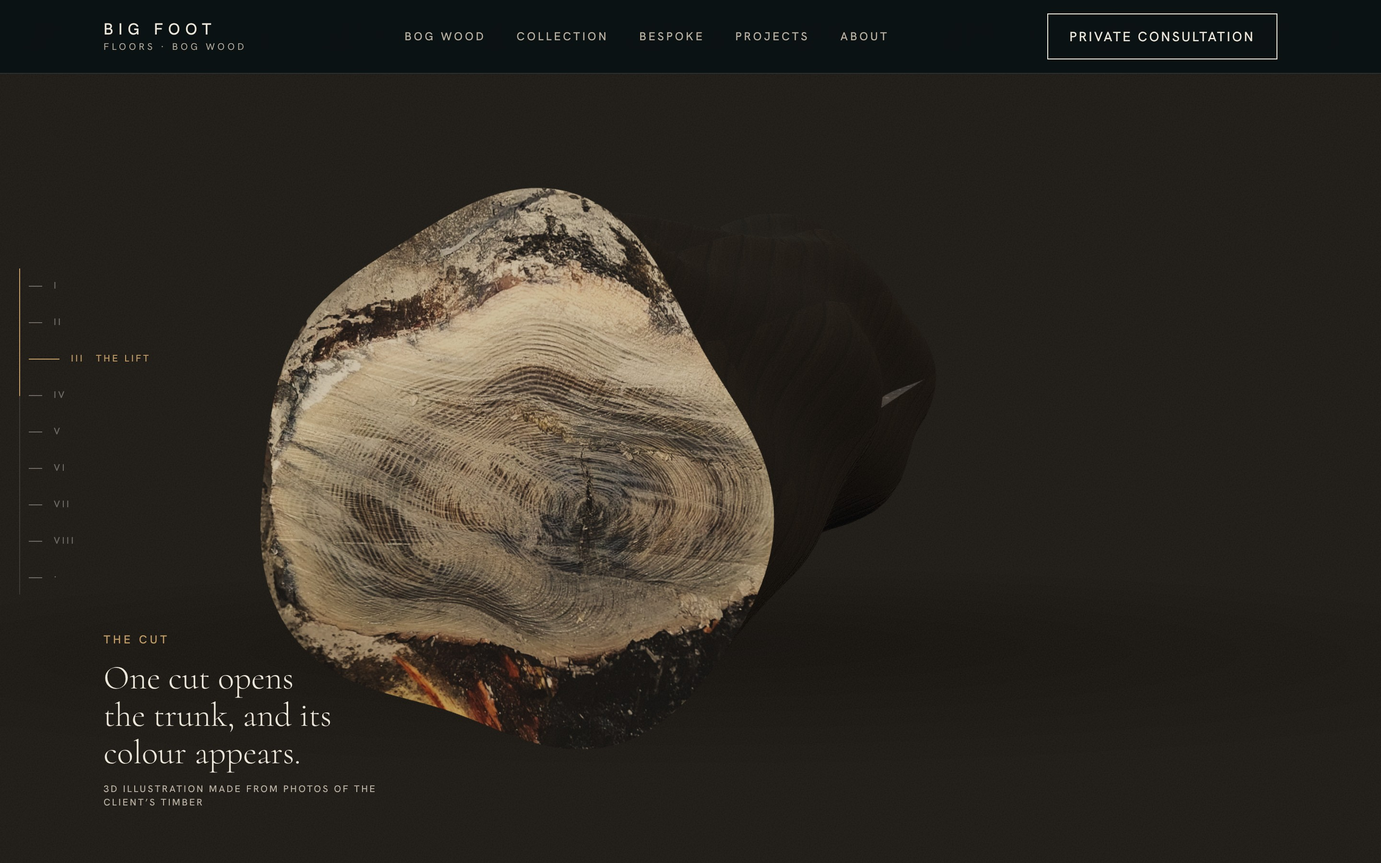
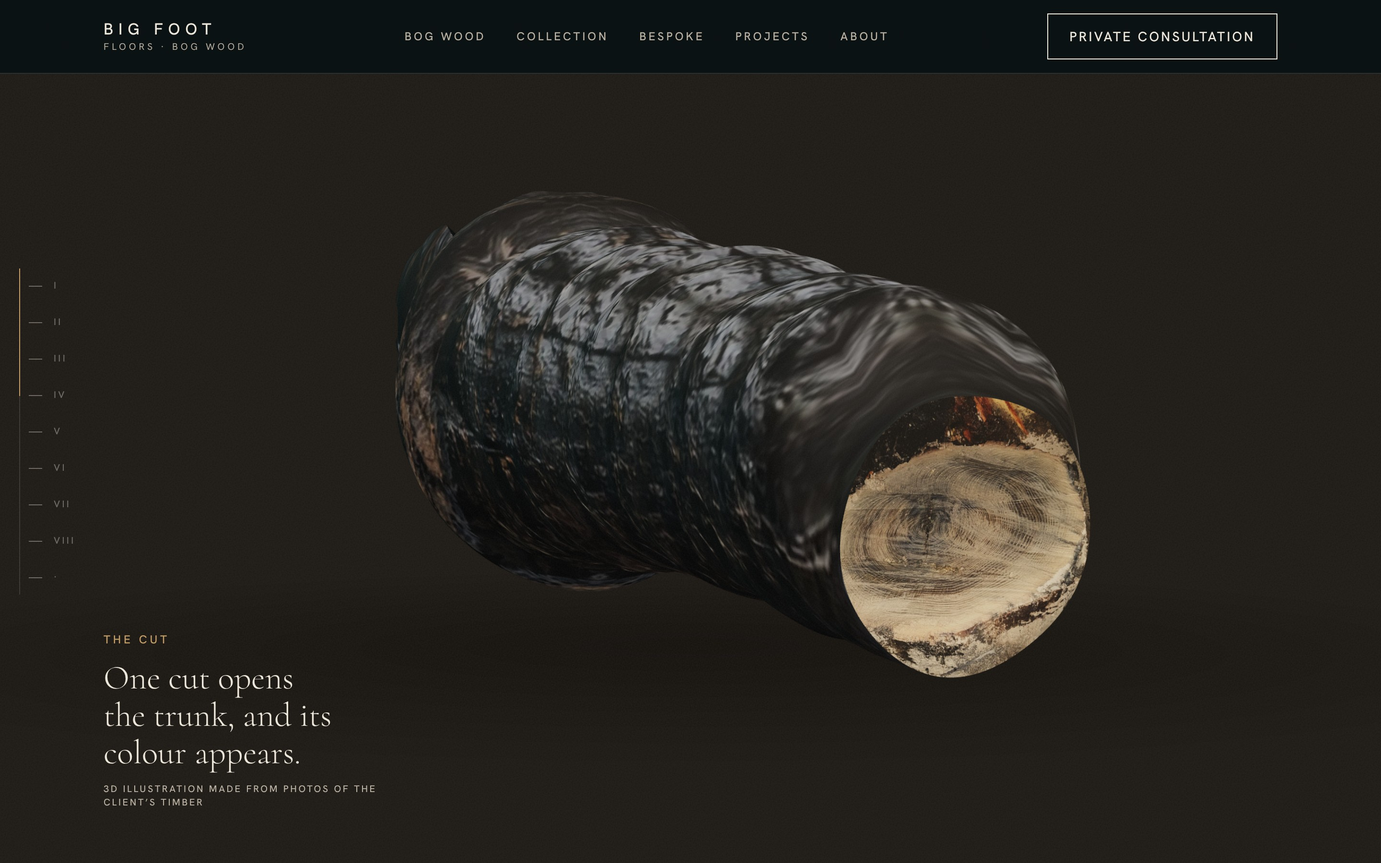
3D trunk scanned from the reference photo: photo-first frame handed over to a turntable mesh; docs and mockups
Claude-Session: https://claude.ai/code/session_0176xqUs6PUy2sKzsaDTTJa2

Changed region(s): [[0.1875, 0.2178, 0.8125, 0.84], [0.375, 0.84, 0.4062, 0.8711]]

diff --git a/src/js/scene.js b/src/js/scene.js
@@ -4,8 +4,9 @@
 import * as THREE from 'three';
 import { RoomEnvironment } from 'three/examples/jsm/environments/RoomEnvironment.js';
 import { gsap } from 'gsap';
+import PROFILE from './trunk-profile.json';   // scanned from the reference trunk photo (scripts/scan_trunk.py)
 
-const R = 0.78, LEN = 4.2;
+const LEN = 4.8, R = LEN / PROFILE.lenOverR;
 
 export async function createScene(canvas) {
   const renderer = new THREE.WebGLRenderer({ canvas, antialias: true, alpha: true, powerPreference: 'high-performance' });
@@ -33,49 +34,96 @@ export async function createScene(canvas) {
     t.colorSpace = THREE.SRGBColorSpace; t.anisotropy = Math.min(8, renderer.capabilities.getMaxAnisotropy());
     Object.assign(t, opts); res(t);
   }, undefined, () => res(null)));
-  const [rings, disc, inside, bark, chevron] = await Promise.all([
+  const [rings, disc, inside, bark, chevron, cutout] = await Promise.all([
     load('rings'), load('disc'), load('inside'),
-    load('bark', { wrapS: THREE.RepeatWrapping, wrapT: THREE.RepeatWrapping }),
-    load('chevron', { wrapS: THREE.RepeatWrapping, wrapT: THREE.RepeatWrapping })
+    load('trunk-photo', { wrapS: THREE.ClampToEdgeWrapping, wrapT: THREE.ClampToEdgeWrapping }),
+    load('chevron', { wrapS: THREE.RepeatWrapping, wrapT: THREE.RepeatWrapping }),
+    load('trunk-cutout')
   ]);
-  bark?.repeat.set(5, 2.2);
   const boardTex = inside?.clone(); if (boardTex) { boardTex.needsUpdate = true; boardTex.rotation = Math.PI / 2; boardTex.center.set(0.5, 0.5); }
 
   const std = (o) => new THREE.MeshStandardMaterial({ roughness: 0.82, metalness: 0, transparent: true, ...o });
-  const barkMat = std({ map: bark, bumpMap: bark, bumpScale: 2.4, color: 0x453e37, roughness: 1 });
+  // the photo is projected onto the mesh, so it carries its own light; the 3D lights only add a little relief and sheen
+  const barkMat = new THREE.MeshPhysicalMaterial({ map: bark, emissiveMap: bark, emissive: 0xffffff, emissiveIntensity: 0.72, bumpMap: bark, bumpScale: 4, color: 0x5e5e5e, roughness: 0.86, clearcoat: 0.04, clearcoatRoughness: 0.8, envMapIntensity: 0.12, transparent: true });
+    const buttMat = std({ map: bark, color: 0x6e6254, roughness: 1, side: THREE.DoubleSide });   // the broken butt end: dark, muddy
   const capMat = std({ map: rings, roughness: 0.8, color: 0xcbbfa9 });
   const insideMat = std({ map: inside, roughness: 0.7 });
-  const mats = [barkMat, capMat, insideMat];
-
+  
   // ---------- the trunk: two half-cylinders so one cut can open it ----------
+  // Outline, centre line and ragged butt (u = 0) are scanned from the reference photo; the photo itself is projected on the mesh.
+  const NB = PROFILE.yc.length, R0 = PROFILE.R0, TEXW = PROFILE.bbox[0], TEXH = PROFILE.bbox[1];
+  const bin = (arr, u) => { const x = Math.min(Math.max(u * NB - 0.5, 0), NB - 1), i = Math.floor(x), j = Math.min(i + 1, NB - 1); return arr[i] + (arr[j] - arr[i]) * (x - i); };
+  const sstep = (a, b, x) => { const t = Math.min(1, Math.max(0, (x - a) / (b - a))); return t * t * (3 - 2 * t); };
+  const kAt = (u) => { const k = bin(PROFILE.hh, Math.max(u, 0.1)) / R0; return k + (Math.max(0.92, k) - k) * 0.55 * sstep(0.4, 1, u); };   // photo radius, with the far taper eased (part of it is perspective)                                            // radius factor along the axis
+  const shiftAt = (u) => (bin(PROFILE.yc, Math.max(u, 0.04)) - PROFILE.cy) / R0;                       // centre line, in radii (down is +)
+  const wobble = (a, y) => 1 + 0.012 * Math.sin(a * 3 + y * 1.7) + 0.01 * Math.sin(a * 5 - y * 2.9 + 1.3);
+  const retreat = (a) => {                                                                              // how far the butt rim sits back, per angle
+    const n = Math.sin(a), row = bin(PROFILE.yc, 0.1) + n * bin(PROFILE.hh, 0.1) - PROFILE.rowsTop;
+    const j = Math.min(PROFILE.end.length - 1, Math.max(0, row)), i = Math.floor(j), f = j - i;
+    const e = PROFILE.end[i] + (PROFILE.end[Math.min(i + 1, PROFILE.end.length - 1)] - PROFILE.end[i]) * f;
+    return Math.max(0, e) * LEN;
+  };
+  function shape(x, y, z, a, r) {                                                                       // r: 0 at axis, 1 at rim
+    let ny = y; const u0 = (y + LEN / 2) / LEN;
+    if (u0 < 0.12) ny += retreat(a) * Math.pow(sstep(0.12, 0, u0), 1.1) * (0.3 + 0.7 * r) + (1 - r) * 0.1 * sstep(0.12, 0, u0);
+    const u = (ny + LEN / 2) / LEN, k = kAt(u) * (1 + (wobble(a, y) - 1) * r);
+    return [x * k + shiftAt(u) * R, ny, z * k];                                                         // local x is "down" on screen
+  }
+  // Around the log the photo is used as in the picture for the visible front (|angle| < 50 deg), then the bark is
+  // continued by mirroring, so turning the log never stretches the edge of the photo into streaks.
+  const TH0 = 50 * Math.PI / 180, S0 = Math.sin(TH0), C0 = Math.cos(TH0), HI = 0.8, LO = 0.42;
+  const around = (th) => {
+    const sg = th < 0 ? -1 : 1, t = Math.abs(th);
+    if (t <= TH0) return Math.sin(th);
+    let m = S0 + C0 * (t - TH0);
+    for (let i = 0; i < 12 && (m > HI || m < LO); i++) m = m > HI ? 2 * HI - m : 2 * LO - m;
+    return sg * m;
+  };
+  const uvFor = (xPre, zPre, yFinal) => {                                                               // photo coordinates for a vertex
+    const u = Math.min(1, Math.max(0, (yFinal + LEN / 2) / LEN)), n = around(Math.atan2(xPre, zPre));
+    const px = PROFILE.x0 + u * PROFILE.len, py = bin(PROFILE.yc, u) + n * bin(PROFILE.hh, u);
+    return [px / TEXW, 1 - py / TEXH];
+  };
   function half(thetaStart) {
-    const g = new THREE.CylinderGeometry(R, R, LEN, 80, 28, false, thetaStart, Math.PI);
-    const p = g.attributes.position;
+    const rs = 128, hs = 120, g = new THREE.CylinderGeometry(R, R, LEN, rs, hs, false, thetaStart, Math.PI);
+    const p = g.attributes.position, uv = g.attributes.uv, torso = (rs + 1) * (hs + 1), cap = 2 * rs + 1;
     for (let i = 0; i < p.count; i++) {
-      const x = p.getX(i), y = p.getY(i), z = p.getZ(i), a = Math.atan2(x, z), r = Math.hypot(x, z);
-      const n = 1 + 0.06 * Math.sin(a * 3 + y * 1.7) + 0.04 * Math.sin(a * 5 - y * 2.9 + 1.3) + 0.035 * Math.sin(y * 3.3);
-      const taper = 1 + 0.07 * (y / LEN);
-      const k = (1 + (n - 1) * (r / R)) * taper;
-      p.setXYZ(i, x * k, y, z * k);
+      const x = p.getX(i), y = p.getY(i), z = p.getZ(i), a = Math.atan2(x, z), r = Math.min(1, Math.hypot(x, z) / R);
+      const [nx, ny, nz] = shape(x, y, z, a, r); p.setXYZ(i, nx, ny, nz);
+      if (i < torso) { const [uu, vv] = uvFor(x, z, ny); uv.setXY(i, uu, vv); }
+      else if (i >= torso + cap) uv.setXY(i, 0.1 + 0.09 * (z / R), 0.5 + 0.2 * (x / R));      // butt end: a patch of muddy bark, not a stretched edge
     }
     g.computeVertexNormals();
-    return new THREE.Mesh(g, [barkMat, capMat, capMat]);
+    const nrm = g.attributes.normal;                                                                    // flat, even shading on both ends (no fan facets)
+    for (let i = torso; i < p.count; i++) nrm.setXYZ(i, 0, i < torso + cap ? 1 : -1, 0);
+    return new THREE.Mesh(g, [barkMat, capMat, buttMat]);
   }
-  const faceGeo = new THREE.PlaneGeometry(2 * R * 0.98, LEN * 0.995);
-  const top = new THREE.Group(), bottom = new THREE.Group();
-  const topMesh = half(0), bottomMesh = half(Math.PI);
-  const topFace = new THREE.Mesh(faceGeo.clone().rotateY(-Math.PI / 2), insideMat); topFace.position.x = 0.002;
-  const botFace = new THREE.Mesh(faceGeo.clone().rotateY(Math.PI / 2), insideMat); botFace.position.x = -0.002;
-  top.add(topMesh, topFace); bottom.add(bottomMesh, botFace);
+  function face(rot) {                                                                                  // the cut surface follows the same outline
+    const g = new THREE.PlaneGeometry(2 * R, LEN, 28, 96).rotateY(rot), p = g.attributes.position;
+    for (let i = 0; i < p.count; i++) {
+      const y = p.getY(i), z = p.getZ(i), a = z >= 0 ? 0 : Math.PI, r = Math.min(1, Math.abs(z) / R);
+      const [nx, ny, nz] = shape(0, y, z, a, r); p.setXYZ(i, nx, ny, nz);
+    }
+    g.computeVertexNormals(); return g;
+  }
+  // local +x is down on screen, so the half that goes up when the trunk opens is the x <= 0 one
+  const upper = new THREE.Group(), lower = new THREE.Group();
+  upper.add(half(Math.PI), new THREE.Mesh(face(Math.PI / 2), insideMat)); upper.children[1].position.x = -0.03;
+  lower.add(half(0), new THREE.Mesh(face(-Math.PI / 2), insideMat)); lower.children[1].position.x = 0.03;
 
-  const spin = new THREE.Group(); spin.rotation.z = Math.PI / 2; spin.add(top, bottom);
+  const spin = new THREE.Group(); spin.rotation.z = -Math.PI / 2; spin.add(upper, lower);
   const roll = new THREE.Group(); roll.add(spin);
-  const yaw = new THREE.Group(); yaw.add(roll); scene.add(yaw);
+  const yaw = new THREE.Group(); yaw.add(roll); const hang = new THREE.Group(); hang.add(yaw); const turn = new THREE.Group(); turn.add(hang); scene.add(turn);   // turn: the turntable spin, hang: the tilt it hangs at
+
+  // the reference photograph itself, as the first frame: same pose and outline as the mesh, then it fades into the 3D
+  const photoMat = new THREE.MeshBasicMaterial({ map: cutout, transparent: true, opacity: 0, depthTest: false, depthWrite: false, toneMapped: false });
+  const photo = new THREE.Mesh(new THREE.PlaneGeometry(TEXW / R0 * R, TEXH / R0 * R), photoMat);
+  photo.position.set((TEXW / 2 - (PROFILE.x0 + PROFILE.len / 2)) / R0 * R, -(TEXH / 2 - PROFILE.cy) / R0 * R, 0.4); photo.renderOrder = 10; hang.add(photo);
 
   // dated disc, seen on the cut end
   const discMat = std({ map: disc, roughness: 0.75, opacity: 0, depthWrite: false });
-  const discMesh = new THREE.Mesh(new THREE.CircleGeometry(R * 0.93, 80), discMat);
-  discMesh.rotation.y = -Math.PI / 2; discMesh.position.x = -LEN / 2 - 0.004; // faces the -X end
+  const discMesh = new THREE.Mesh(new THREE.CircleGeometry(R * kAt(1) * 0.97, 80), discMat);
+  discMesh.rotation.y = Math.PI / 2; discMesh.position.set(LEN / 2 + 0.004, shiftAt(1) * -R, 0); // faces the +X end (the sawn top)
   yaw.add(discMesh);
 
   // ---------- boards (drying stack) ----------
@@ -119,16 +167,16 @@ export async function createScene(canvas) {
   const sx = sc.getContext('2d'), gr = sx.createRadialGradient(64, 64, 4, 64, 64, 64);
   gr.addColorStop(0, 'rgba(0,0,0,.55)'); gr.addColorStop(1, 'rgba(0,0,0,0)'); sx.fillStyle = gr; sx.fillRect(0, 0, 128, 128);
   const shadowMat = new THREE.MeshBasicMaterial({ map: new THREE.CanvasTexture(sc), transparent: true, depthWrite: false, opacity: 0 });
-  const shadow = new THREE.Mesh(new THREE.PlaneGeometry(7.5, 3.2), shadowMat); shadow.rotation.x = -Math.PI / 2; shadow.position.y = -1.02; scene.add(shadow);
+  const shadow = new THREE.Mesh(new THREE.PlaneGeometry(7.5, 3.2), shadowMat); shadow.rotation.x = -Math.PI / 2; shadow.position.y = -1.05; scene.add(shadow);
 
   // ---------- keyframes (t: 0..6, one unit per beat) ----------
-  const P = { fade: 0, roll: 0, yaw: 0.55, scale: 0.6, camZ: 9.6, camY: 0.5, lookY: 0, split: 0, tilt: 0, topFade: 1, bottom: 1,
+  const P = { photo: 1, turn: 0, hang: 0.395, fade: 0, roll: 0, yaw: 0, scale: 0.6, camZ: 9.6, camY: 0.5, lookY: 0, split: 0, tilt: 0, topFade: 1, bottom: 1,
     boards: 0, spread: 0, lift: 0, pattern: 0, floor: 0, disc: 0, shadow: 0, topDown: 0, stack: 1 };
   const TAU = Math.PI * 2, tl = gsap.timeline({ paused: true, defaults: { ease: 'none' } });
   // beat 0: the trunk appears out of the dark and makes a full turn
-  tl.to(P, { fade: 1, scale: 1, duration: 0.5 }, 0).to(P, { roll: TAU, yaw: 0.38, camZ: 8.4, duration: 1 }, 0).to(P, { shadow: 0.5, duration: 0.6 }, 0.2)
+  tl.to(P, { fade: 1, scale: 1, duration: 0.4 }, 0).to(P, { camZ: 9.4, duration: 0.45 }, 0).to(P, { photo: 0, duration: 0.18 }, 0.34).to(P, { turn: -TAU, hang: 0, yaw: 0.1, duration: 0.6 }, 0.4).to(P, { shadow: 0.5, duration: 0.6 }, 0.4)
   // beat 1: the cut end turns to the camera; the dated disc fades in
-    .to(P, { yaw: Math.PI / 2, camZ: 6.2, camY: 0.1, duration: 1 }, 1).to(P, { disc: 1, duration: 0.45 }, 1.5)
+    .to(P, { yaw: -Math.PI / 2, camZ: 6.4, camY: 0.1, duration: 1 }, 1).to(P, { disc: 1, duration: 0.45 }, 1.5)
   // beat 2: back to the side, one cut opens the trunk
     .to(P, { disc: 0, duration: 0.2 }, 2).to(P, { yaw: 0.2, camZ: 9.4, camY: 3.4, lookY: -0.45, duration: 1 }, 2)
     .to(P, { split: 1.15, tilt: 0.42, duration: 0.8 }, 2.2)
@@ -151,14 +199,17 @@ export async function createScene(canvas) {
 
   function apply() {
     const o = P.fade;
-    yaw.rotation.y = P.yaw; roll.rotation.x = P.roll; yaw.scale.setScalar(P.scale * (1 - P.topDown * 0.0));
+    yaw.rotation.y = P.yaw; roll.rotation.x = P.roll; hang.rotation.z = -P.hang; turn.rotation.y = P.turn; yaw.scale.setScalar(P.scale * (1 - P.topDown * 0.0));
     yaw.visible = o > 0.001 && (P.bottom > 0.001 || P.topFade > 0.001 || P.disc > 0);
+    turn.visible = yaw.visible;
     spin.visible = P.bottom > 0.001 || P.topFade > 0.001;
-    top.position.x = P.split; top.rotation.z = -P.tilt * 0.35; top.rotation.y = P.tilt * 0.18;
-    top.visible = P.topFade > 0.01; bottom.visible = P.bottom > 0.01;
+    upper.position.x = -P.split; upper.rotation.z = P.tilt * 0.35; upper.rotation.y = P.tilt * 0.18;
+    upper.visible = P.topFade > 0.01; lower.visible = P.bottom > 0.01;
+    upper.children[1].visible = lower.children[1].visible = P.split > 0.03;     // the cut faces only exist once the trunk is opened
     setOpacity(barkMat, o * (P.bottom > P.topFade ? P.bottom : Math.max(P.topFade, P.bottom)));
     setOpacity(capMat, o * Math.max(P.topFade, P.bottom)); setOpacity(insideMat, o * Math.max(P.topFade, P.bottom));
     setOpacity(discMat, o * P.disc);
+    photo.visible = P.photo > 0.003; photoMat.opacity = o * P.photo;
     // boards
     boards.visible = P.boards > 0.01 && P.stack > 0.01;
     const sp = ease(P.spread), lf = ease(P.lift);

diff --git a/scripts/scan_trunk.py b/scripts/scan_trunk.py
@@ -1,0 +1,116 @@
+#!/usr/bin/env python3
+"""'Scans' the reference trunk photo (source-media/generated/ai-9.jpg, an AI-generated image from the client) for the 3D trunk:
+ - outline per slice along the axis (centre line + half height) and the ragged butt contour -> src/js/trunk-profile.json
+ - the photo itself, levelled along the axis, with the sling painted out and the background bled out of the edges
+   -> public/media/3d/trunk-photo.webp (projected onto the mesh by scene.js)
+Needs numpy and Pillow only. Run: python3 scripts/scan_trunk.py"""
+import json, os, collections
+import numpy as np
+from PIL import Image, ImageFilter, ImageDraw
+R = os.path.dirname(os.path.dirname(os.path.abspath(__file__)))
+img = Image.open(f'{R}/source-media/generated/ai-9.jpg').convert('RGB'); W, H = img.size
+
+# 1) paint the sling out: clone bark from 80 px back along the trunk, feathered
+ang0 = 22.6; ca, sa = np.cos(np.radians(ang0)), np.sin(np.radians(ang0))
+strap = [(596, 300), (640, 325), (668, 372), (690, 425), (705, 480), (706, 530), (690, 578), (655, 618), (612, 640), (590, 612), (630, 575), (660, 530), (664, 480), (650, 430), (626, 378), (588, 336)]
+sm = Image.new('L', (W, H), 0); ImageDraw.Draw(sm).polygon(strap, fill=255)
+sm = sm.filter(ImageFilter.MaxFilter(7)).filter(ImageFilter.GaussianBlur(5))
+src = np.asarray(img).astype(float); yy, xx = np.mgrid[0:H, 0:W]
+sx = np.clip((xx - 95 * ca).round().astype(int), 0, W - 1); sy = np.clip((yy - 95 * sa).round().astype(int), 0, H - 1)
+clone = src[sy, sx]; al = (np.asarray(sm).astype(float) / 255)[..., None]
+clean = Image.fromarray((src * (1 - al) + clone * al).astype('uint8'))
+
+# 2) trunk mask (dark body against the pale sky), no crane, chains or drips
+a = np.asarray(img).astype(float); lum = a.mean(2)
+mask = (lum < 118) & (yy > 85) & (yy < 690) & (xx < 885)
+mask &= ~((xx > 728) & (yy < 395 + (xx - 728) * 0.62))
+topx = [205, 245, 280, 330, 400, 450, 520, 580, 625, 680, 740, 800, 860, 885]           # trunk's upper outline (hand-traced),
+topy = [118, 150, 185, 213, 238, 258, 288, 318, 345, 392, 430, 466, 498, 512]           # keeps the dark sky between the chains out
+mask &= ~((xx >= 205) & (yy < np.interp(xx, topx, topy) - 3))
+m = Image.fromarray((mask * 255).astype('uint8')).filter(ImageFilter.MedianFilter(7)); m = np.asarray(m) > 127
+seed = (int(H * .45), int(W * .45)); lab = np.zeros((H, W), bool); q = collections.deque([seed]); lab[seed] = True
+while q:
+    y, x = q.popleft()
+    for dy, dx in ((1, 0), (-1, 0), (0, 1), (0, -1)):
+        ny, nx = y + dy, x + dx
+        if 0 <= ny < H and 0 <= nx < W and m[ny, nx] and not lab[ny, nx]: lab[ny, nx] = True; q.append((ny, nx))
+mk = Image.fromarray((lab * 255).astype('uint8'))
+mk = mk.filter(ImageFilter.MaxFilter(11)).filter(ImageFilter.MinFilter(11)).filter(ImageFilter.MinFilter(31)).filter(ImageFilter.MaxFilter(31))
+mk = np.asarray(mk) > 127; mk[:, 872:] = False
+ys, xs = np.nonzero(mk); pts = np.stack([xs, ys], 1).astype(float); c = pts.mean(0)
+_, _, vt = np.linalg.svd(pts - c, full_matrices=False); ax = vt[0]
+if ax[0] < 0: ax = -ax
+ang = float(np.degrees(np.arctan2(ax[1], ax[0])))
+
+# 3) level everything along the axis (on a padded canvas so nothing rotates out of frame)
+PADC = 320
+def padimg(im, fill=0):
+    out = Image.new(im.mode, (im.width + 2 * PADC, im.height + 2 * PADC), fill); out.paste(im, (PADC, PADC)); return out
+ctr = (float(c[0]) + PADC, float(c[1]) + PADC)
+rp = padimg(clean).rotate(ang, resample=Image.BICUBIC, center=ctr)
+rm = np.asarray(padimg(Image.fromarray((mk * 255).astype('uint8'))).rotate(ang, resample=Image.NEAREST, center=ctr)) > 127
+ys, xs = np.nonzero(rm); x0, x1 = int(xs.min()), int(xs.max()); y0, y1 = int(ys.min()), int(ys.max())
+Lpx = x1 - x0; N = 64
+# true bark edge per column: first / last row inside the mask whose (smoothed) luminance is bark-dark; the mask edge sits on the pale rim
+lumR = np.asarray(rp.convert('L').filter(ImageFilter.GaussianBlur(2))).astype(float)
+ytc = np.full(rm.shape[1], np.nan); ybc = np.full(rm.shape[1], np.nan)
+for x in range(x0, x1 + 1):
+    col_m = np.nonzero(rm[:, x])[0]
+    if len(col_m) < 10: continue
+    dark = col_m[lumR[col_m, x] < 80]
+    if len(dark) > 10: ytc[x] = dark.min(); ybc[x] = dark.max()
+xs_ok = np.nonzero(~np.isnan(ytc))[0]
+ytc = np.interp(np.arange(len(ytc)), xs_ok, ytc[xs_ok]); ybc = np.interp(np.arange(len(ybc)), xs_ok, ybc[xs_ok])
+edges = np.linspace(x0, x1, N + 1); yc = []; hh = []
+for i in range(N):
+    xa, xb = int(edges[i]), max(int(edges[i]) + 1, int(edges[i + 1]))
+    lo = np.median(ytc[xa:xb]); hi = np.median(ybc[xa:xb]); yc.append((lo + hi) / 2); hh.append((hi - lo) / 2)
+yc = np.array(yc); hh = np.array(hh); R0 = float(np.median(hh[N // 4:3 * N // 4]))
+k = np.ones(3) / 3; hh = np.convolve(np.pad(hh, 1, mode='edge'), k, 'valid'); yc = np.convolve(np.pad(yc, 1, mode='edge'), k, 'valid')
+cy_ref = float(yc[N // 4:3 * N // 4].mean())
+# ragged butt: leftmost trunk pixel for every row of the bbox (fraction of length from the furthest tip)
+rows = np.arange(y0, y1 + 1); left = np.full(len(rows), np.nan)
+for j, r_ in enumerate(rows):
+    xr = np.nonzero(rm[r_])[0]
+    if len(xr): left[j] = xr.min()
+ok = ~np.isnan(left); left = np.interp(np.arange(len(rows)), np.arange(len(rows))[ok], left[ok]); end = (left - x0) / Lpx
+
+# 4) texture = levelled, cleaned photo cropped to the trunk bbox; bleed trunk colour outwards so edges never show sky
+pad = 6; bx0, by0, bx1, by1 = x0 - pad, y0 - pad, x1 + pad, y1 + pad
+print('bbox', bx0, by0, bx1, by1, 'rot size', rp.size)
+ta = np.asarray(rp).astype(float)[by0:by1, bx0:bx1]; gx = np.arange(bx0, bx1).clip(0, len(ytc) - 1); inset = 3
+rows_all = np.arange(by0, by1)[:, None]
+between = (rows_all >= ytc[gx][None, :] + inset) & (rows_all <= ybc[gx][None, :] - inset)          # inside the bark edges
+rm_c = rm[by0:by1, bx0:bx1]
+butt = np.asarray(Image.fromarray((rm_c * 255).astype('uint8')).filter(ImageFilter.MinFilter(9))) > 127
+butt &= (np.arange(bx0, bx1)[None, :] < x0 + 0.14 * Lpx)                                            # ragged end: trust the mask
+tm = (between & rm_c) | butt
+filled = tm.copy(); col = ta.copy()
+for _ in range(40):
+    if filled.all(): break
+    acc = np.zeros_like(col); cnt = np.zeros(filled.shape)
+    for dy, dx in ((1, 0), (-1, 0), (0, 1), (0, -1), (1, 1), (-1, -1), (1, -1), (-1, 1)):
+        sh = np.roll(np.roll(col * filled[..., None], dy, 0), dx, 1); cs = np.roll(np.roll(filled, dy, 0), dx, 1)
+        acc += sh; cnt += cs
+    new = (~filled) & (cnt > 0); col[new] = acc[new] / cnt[new][:, None]; filled |= new
+# soften the baked wet-sky glints (the 3D light provides its own sheen), keep the colour of the mud and bark
+Lc = col.mean(2, keepdims=True); thr = 105.0
+col = col * np.where(Lc > thr, (thr + 0.45 * (Lc - thr)) / np.maximum(Lc, 1), 1.0)
+tex = Image.fromarray(np.clip(col, 0, 255).astype('uint8'))
+os.makedirs(f'{R}/public/media/3d', exist_ok=True)
+tw = 1280; th = int(tw * tex.height / tex.width); tex.resize((tw, th), Image.LANCZOS).save(f'{R}/public/media/3d/trunk-photo.webp', quality=88, method=6)
+# cut-out: the levelled, cleaned photo with the trunk as alpha (shown as the very first frame, then handed over to the 3D mesh)
+alpha = Image.fromarray((rm[by0:by1, bx0:bx1] * 255).astype('uint8')).filter(ImageFilter.MinFilter(5)).filter(ImageFilter.GaussianBlur(1.2))
+rgba = rp.crop((bx0, by0, bx1, by1)).convert('RGBA'); rgba.putalpha(alpha)
+cw = 1600; rgba.resize((cw, int(cw * rgba.height / rgba.width)), Image.LANCZOS).save(f'{R}/public/media/3d/trunk-cutout.webp', quality=90, method=6)
+bw, bh = bx1 - bx0, by1 - by0
+json.dump({
+    'lenOverR': round(Lpx / R0, 3), 'angle': round(ang, 2),
+    'bbox': [bw, bh], 'x0': x0 - bx0, 'len': Lpx,                       # px in the cropped texture
+    'yc': [round(float(v - by0), 1) for v in yc], 'hh': [round(float(v), 1) for v in hh], 'R0': round(R0, 1), 'cy': round(cy_ref - by0, 1),
+    'rowsTop': y0 - by0, 'end': [round(float(v), 4) for v in end]
+}, open(f'{R}/src/js/trunk-profile.json', 'w'))
+print('axis', round(ang, 1), 'L/R0', round(Lpx / R0, 2), 'tex', tex.size, '->', (tw, th))
+tex.save('/tmp/claude-0/qa/trunk_tex_preview.png')
+ov = np.asarray(rp).astype(float).copy(); ov[~rm] = ov[~rm] * 0.35
+Image.fromarray(ov.astype('uint8')).crop((bx0, by0, bx1, by1)).save('/tmp/claude-0/qa/rot_mask_overlay.png')

diff --git a/AUDIT.md b/AUDIT.md
@@ -53,3 +53,19 @@ Lighthouse mobile (локальное превью): Performance 97–98, Access
 2. 3D-модель ствола из фотограмметрии (30–40 фото вокруг ствола) вместо процедурной.
 3. Звук (тихий гул воды) по кнопке, не по умолчанию.
 4. Тест на реальных телефонах и на слабых устройствах.
+
+## 8. Бревно «по скану» с референсной фотографии
+
+Референс: последнее присланное изображение (бревно на цепях, рваный комель слева). Это **сгенерированная картинка** (как и остальные восемь в той же партии, на первой даже подпись «BOG PINE», которого у клиента нет), поэтому в 3D она идёт как стилизация с подписью «3D illustration made from photos of the client’s timber». В галереи «реального процесса» эти картинки не попадают.
+
+Что сделано из этого кадра (`scripts/scan_trunk.py`, только numpy и Pillow):
+- по цвету и контуру выделен силуэт бревна, выровнен по оси (22,6°), измерены профиль радиуса, линия центра и рваная кромка комля, всё по срезам вдоль длины;
+- ремень, цепи и капли удалены (ремень «затёрт» корой), фон вытянут за край, чтобы небо не попадало на кору;
+- по этим данным построена модель: вздутый комель с рваными «щепками», сбег к ровному спилу, лёгкий изгиб оси;
+- **первый кадр сцены это сама фотография** (без ремня и цепей, на прозрачном фоне). Она за 0,2 экрана переходит в 3D-модель того же силуэта, которая вращается на 360° на «поворотном столе»;
+- кора на модели: проекция той же фотографии. За пределами видимой на фото стороны кора продолжается зеркально, поэтому при вращении нет растянутых полос.
+
+Что осталось слабым:
+- у фото один ракурс, поэтому вокруг бревна кора повторяется зеркально. Для точной модели нужна фотограмметрия (30–40 снимков реального ствола) или модель от 3D-художника;
+- в статике 3D мягче фото: нет резкого рельефа трещин. Поэтому и сделан переход «фото → 3D»;
+- торец комля (в сцене виден мельком) условный, фото его не показывает.

diff --git a/QUESTIONS.md b/QUESTIONS.md
@@ -20,3 +20,4 @@
 16. **Фото с bffloors.com.** В прототип подключены 25 фото с вашего текущего сайта (интерьеры, породы, мастерская). Можно ли их использовать в новом дизайне, и есть ли оригиналы в лучшем качестве? Подтвердите подписи проектов (резиденция или яхта, страна).
 17. **Логотип.** На сайте лежит `logo-2.png` размером 71×90, этого мало для retina. Нужен SVG или PNG от 400 px.
 18. **Слова клиента.** На сайте есть скриншот сообщения «Finally, the floor is fantastic, thank you very much». Можно ли показывать как отзыв?
+19. **Сгенерированные картинки.** Девять изображений (Bog Oak/Ash/Pine, строгальный станок, меловые метки, подъём краном, подводный дайвер и др.) выглядят сгенерированными. Кто их делал и можно ли показывать на сайте как иллюстрации? На сайте по умолчанию они не используются как реальный процесс. «Bog Pine» отсутствует в списке материалов клиента: его нет на bffloors.com.

diff --git a/MEDIA_MAP.md b/MEDIA_MAP.md
@@ -166,3 +166,7 @@
 ### Рекомендация
 
 Сначала спросить клиента про подводную съёмку (дайверы работают 20+ лет, видео почти точно есть). Если нет, для S01 и S03 генерация лучше стока: кадр можно подогнать под цвет глав и формат, а подпись «Illustration» честно отделяет его от реальных кадров.
+
+## 7. Сгенерированные изображения от клиента (девять шт., `source-media/generated/ai-1…9.jpg`, не в git)
+
+Выглядят как AI-иллюстрации (артефакты на коре и тексте, «BOG PINE»), не как реальная съёмка. На сайте как реальный процесс не показываются. Использование: ai-9 (бревно на цепях) дало форму и кору для 3D-бревна, см. AUDIT.md §8. Остальные могут заполнить пробелы S01, S03, S04 (подводный дайвер) и S02 как **Illustration** (подпись добавляется автоматически через `illustration:true` в manifest), но только по вашему решению, лучше после ответа клиента (QUESTIONS.md, п. 19).

diff --git a/CHANGELOG.md b/CHANGELOG.md
@@ -14,3 +14,4 @@
 - Fonts: body/UI Montserrat -> Hanken Grotesk (Montserrat is generic and wide next to Garamond-style Cormorant); Cormorant kept for display. See AUDIT.md.
 - Motion: six 3D beats (Three.js) between chapters, headings reveal word by word, photos open like a curtain, hero silt particles, film grain. Beats use `position: sticky`, not pins; reduced motion, `?static`, no WebGL and data saver hide them. Departs from the "minimal motion" brief at the client's request.
 - Single-file build (`scripts/make_single_html.py`) inlines the 3D chunk and textures.
+- 3D trunk rebuilt from the reference trunk photo (scripts/scan_trunk.py): scanned outline and ragged butt, photo projected as bark, mirrored beyond the visible side. Sling, chains and drips removed. First frame is the cleaned photo itself, handed over to the 3D mesh, which turns on a turntable.

diff --git a/README.md b/README.md
@@ -16,3 +16,5 @@ npm run preview    # serve dist/
 
 ## 3D beats
 `src/js/scene.js` (Three.js) draws one trunk that turns, opens, becomes boards and then a floor, driven by scroll across six `.beat` sections. Textures in `public/media/3d/` are cut from the client's photos: `python3 scripts/make_textures.py`. It loads only when the first beat is near, and is hidden under reduced motion, `?static`, no WebGL and data saver. `AUDIT.md` has the reasoning and the limits.
+
+`scripts/scan_trunk.py` rebuilds `src/js/trunk-profile.json` and the trunk textures from `source-media/generated/ai-9.jpg`.
